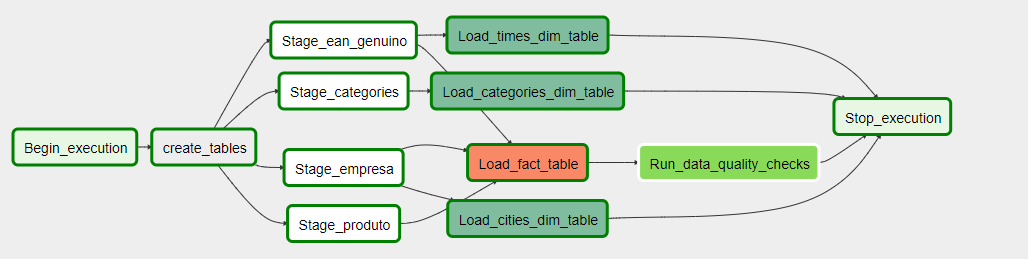
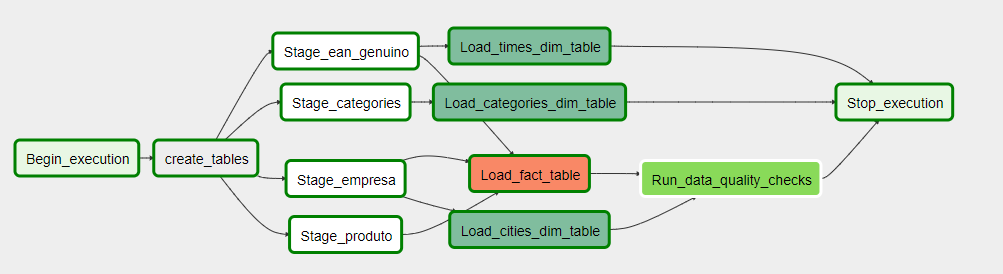
Update dag

Changed region(s): [[0.0, 0.0309, 0.9581, 0.9575], [0.68, 0.8031, 0.7727, 0.834]]

diff --git a/airflow/dags/dend_dag.py b/airflow/dags/dend_dag.py
@@ -137,9 +137,9 @@ stage_ean_genuino_to_redshift >> load_times_redshift
 stage_produto_to_redshift >> load_fact_redshift
 stage_empresa_to_redshift >> load_fact_redshift
 stage_ean_genuino_to_redshift >> load_fact_redshift
+load_cities_redshift >> run_quality_checks
 load_fact_redshift >> run_quality_checks
 run_quality_checks >> end_operator
 load_times_redshift >> end_operator
-load_cities_redshift >> end_operator
 load_categories_redshift >> end_operator
 
